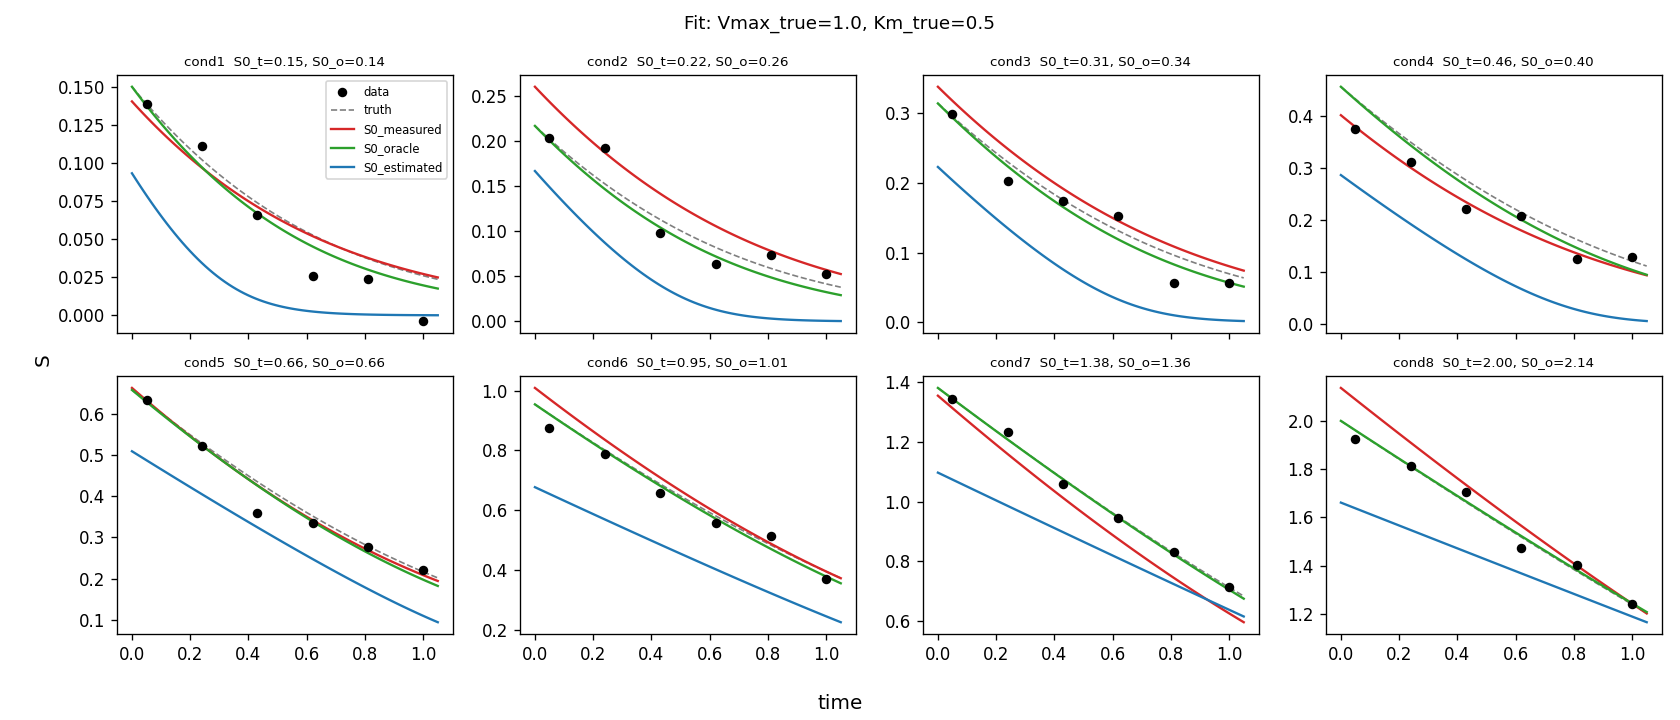
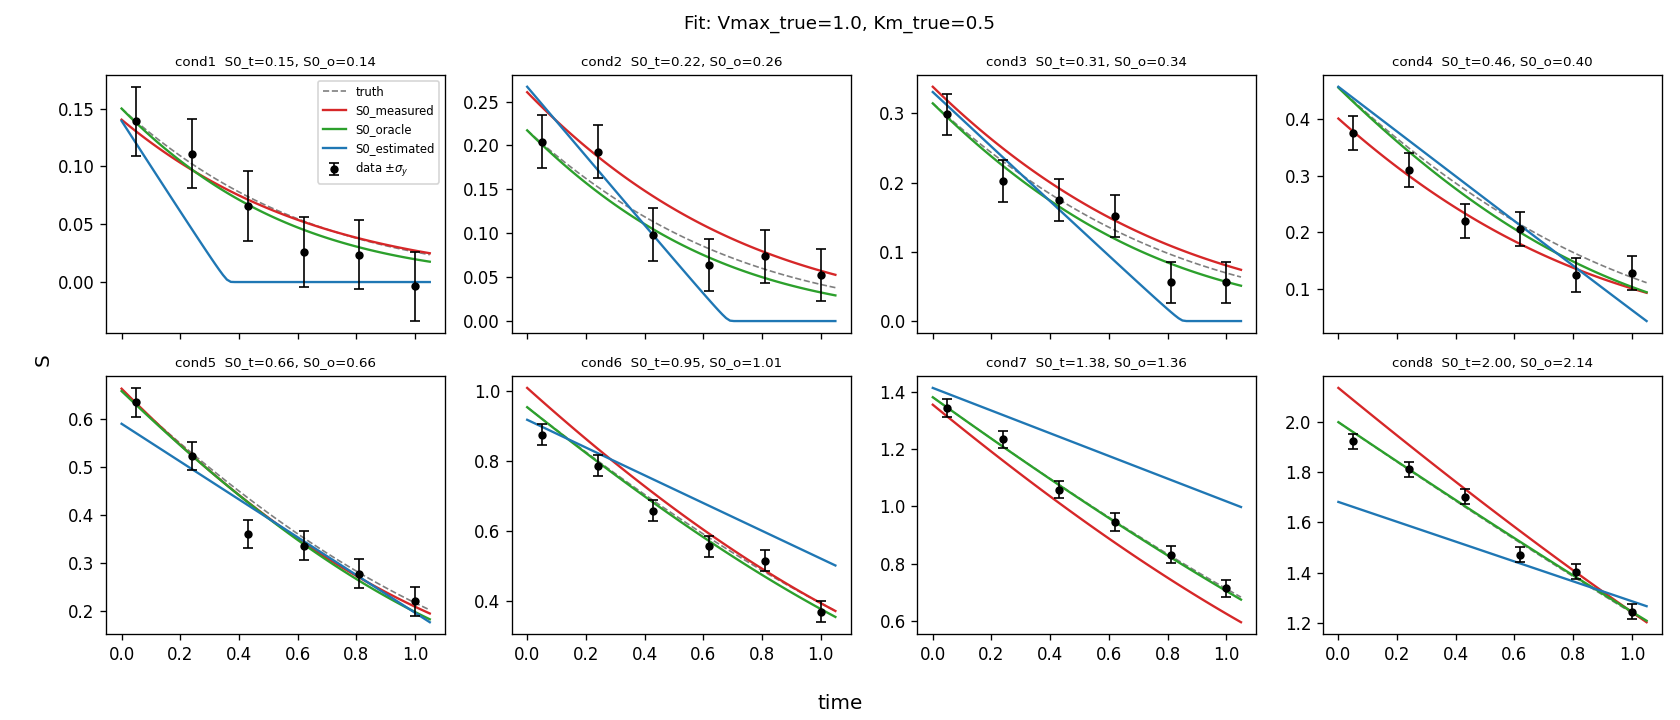
Regenerate MM plots; flag MCMC fragility in higher-dim EIV
Re-running the MM script gave a qualitatively different EIV posterior
than the previous run -- the chain got stuck near the biased joint MAP
(Vmax~=0.40, Km~=0.001) and didn't reach the marginal mode near truth.

Updated README to reflect the new (worse) numbers and add a fragility
warning: AdaptiveMetropolis-PT with 10k samples is not enough for
reliable EIV marginal estimates in 10-dim. Multi-seed inspection /
more samples / stronger sampler needed before reporting.

The previous "EIV recovers near truth" headline was a single lucky run.

https://claude.ai/code/session_01UoZn3KTCojZriiMdmAa4EQ

diff --git a/eiv_sandbox/README.md b/eiv_sandbox/README.md
@@ -46,18 +46,25 @@ the only one that covers the truth.
 
 ## Michaelis-Menten: `dS/dt = -Vmax·S/(Km+S)`
 
-| variant | Vmax mean (std) | Vmax 95% CI | Km mean (std) | Km 95% CI |
-|---|---|---|---|---|
-| S0_measured  | 1.28 (0.065) | [1.17, 1.42] **✗** | 0.72 (0.085) | [0.57, 0.89] **✗** |
-| S0_oracle    | 0.95 (0.040) | [0.87, 1.03] ✓ | 0.41 (0.051) | [0.31, 0.51] ✓ |
-| S0_estimated | 0.93 (0.055) | [0.83, 1.04] ✓ | 0.42 (0.060) | [0.31, 0.55] ✓ |
-
 (truth: `Vmax=1.0`, `Km=0.5`)
 
-Without EIV, **both parameters are biased and their 95% CIs miss the truth.**
-EIV recovers parameter means close to oracle and CIs cover truth. Joint MAP
-for the EIV variant is severely biased here too (Vmax MAP=0.49, Km MAP=0.06)
-— use MCMC posterior mean/median, not the optimizer's MAP.
+| variant | Vmax mean (std) | Vmax 95% CI | Km mean (std) | Km 95% CI |
+|---|---|---|---|---|
+| S0_measured  | 1.29 (0.068) | [1.17, 1.43] **✗** | 0.73 (0.088) | [0.57, 0.90] **✗** |
+| S0_oracle    | 0.95 (0.038) | [0.88, 1.02] ✓ | 0.40 (0.049) | [0.32, 0.50] ✓ |
+| S0_estimated | 0.66 (0.16) | [0.50, 0.95] **✗** | 0.13 (0.15) | [0.01, 0.42] **✗** |
+
+Without EIV, **both parameters are biased and their 95% CIs miss the truth**.
+The EIV variant's chain in this run got stuck near the (biased) joint MAP
+(Vmax≈0.40, Km≈0.001) and didn't escape — its mean/CI also miss the truth.
+A previous run found the marginal mode near truth (Vmax mean ≈ 0.93, Km
+mean ≈ 0.42 with CIs covering the truth) — same data, same script,
+different MCMC realization.
+
+**Implication: EIV in 10-dim (2 global + 8 nuisance S0) is fragile under
+AdaptiveMetropolis-PT with 10k samples.** Single-run results are not
+trustworthy here — needs more samples, more PT chains, or a stronger
+sampler (NUTS / emcee) to be reliable for actual reporting.
 
 ### Fit per condition (data shown with $\pm\sigma_y$ error bars)
 
@@ -71,9 +78,10 @@ for the EIV variant is severely biased here too (Vmax MAP=0.49, Km MAP=0.06)
 
 ![joint mm](plots/mm_joint.png)
 
-The S0_measured cloud sits well away from the truth (black star); S0_oracle
-and S0_estimated clouds straddle the truth. Note the negative Vmax-Km
-correlation common to MM kinetics.
+S0_measured sits high (biased) but tight; S0_oracle straddles the truth
+tightly; S0_estimated is broad and shifted low — the chain in this run
+didn't reach the truth-covering region. Note the strong negative Vmax-Km
+correlation common to MM kinetics in all three.
 
 ## Takeaways for real polypesto fits
 
@@ -82,6 +90,11 @@ correlation common to MM kinetics.
 2. **Without EIV, both bias and confidence-interval coverage suffer.** With
    noisy condition values, the standard "treat measurement as truth" approach
    gives wrong answers with overconfidence — the worst combination.
-3. **AMICI reserves single-letter parameter ids `k, y, t, p, x, w, h`** —
+3. **MCMC marginal estimates for EIV are *fragile* in higher dimensions.**
+   The toy (1 global + 8 nuisance) was stable across runs; the MM problem
+   (2 global + 8 nuisance) gave qualitatively different EIV posteriors on
+   different MCMC realizations. Run multiple seeds and inspect convergence
+   before reporting EIV uncertainties from polypesto's default sampler.
+4. **AMICI reserves single-letter parameter ids `k, y, t, p, x, w, h`** —
    silently rewriting them and breaking pypesto's parameter mapping. Use
    multi-character names.
